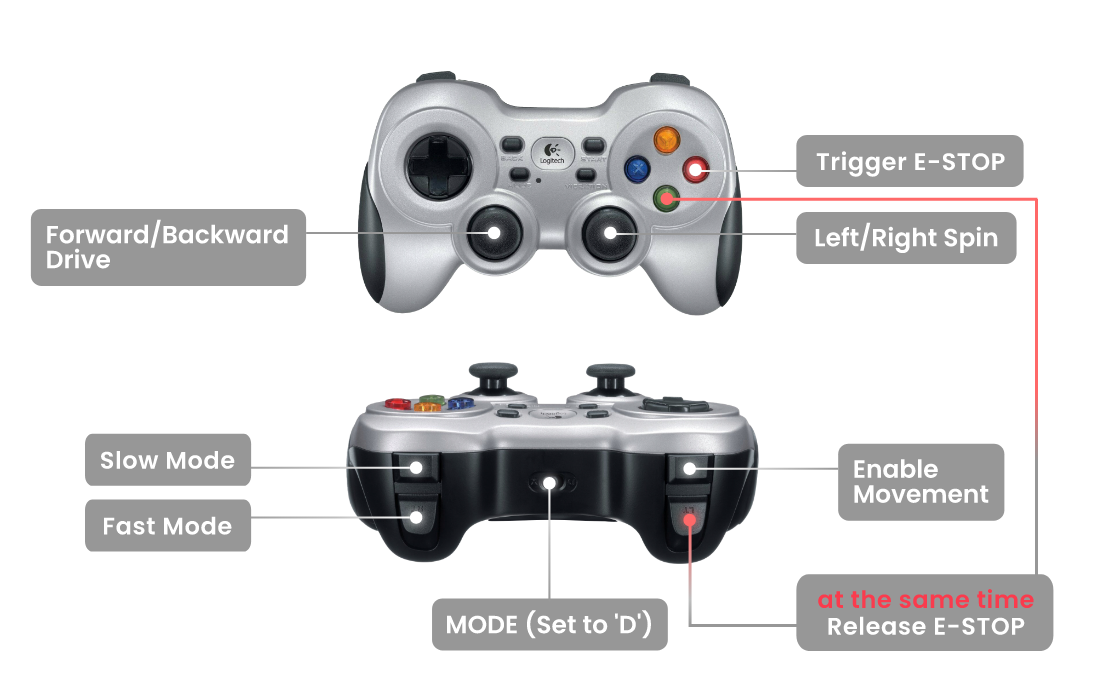
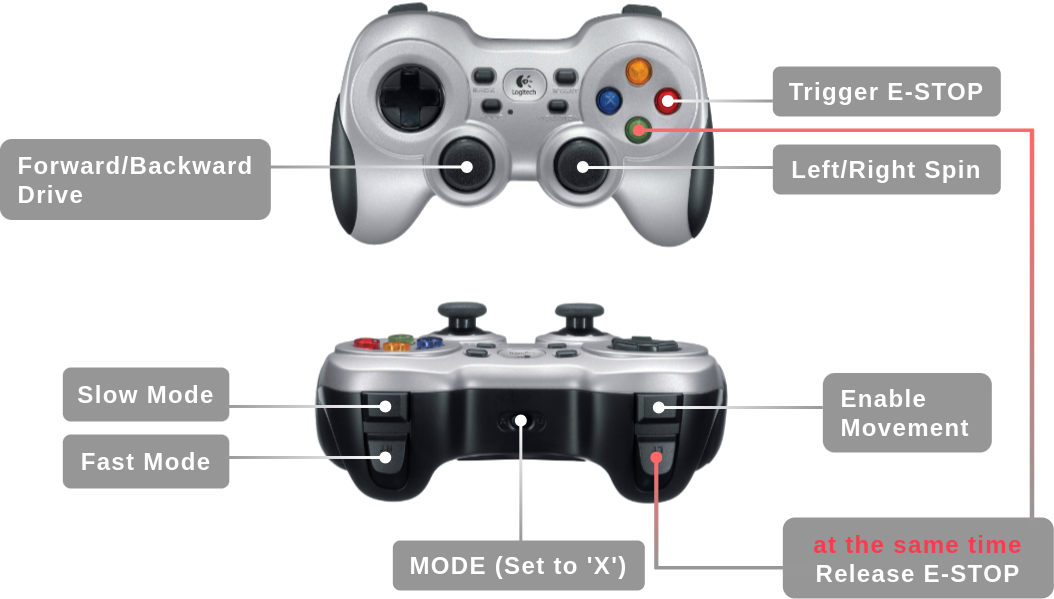
docs XInput update (#26)

diff --git a/README.md b/README.md
@@ -4,7 +4,7 @@ Dockerized ROS node allowing control of ROS-powered mobile robots with Logitech 
 
 ## Setup joy
 
-Connect joy via nano USB receiver and make sure it is in **DirectInput Mode** (switch in front of the pad with letters **D** and **X**, select **D**).
+Connect joy via nano USB receiver and make sure it is in **XInput Mode** (switch in front of the pad with letters **D** and **X**, select **X**).
 
 To test if joy works, use `jstest /dev/input/js0`.
 If the output is:
